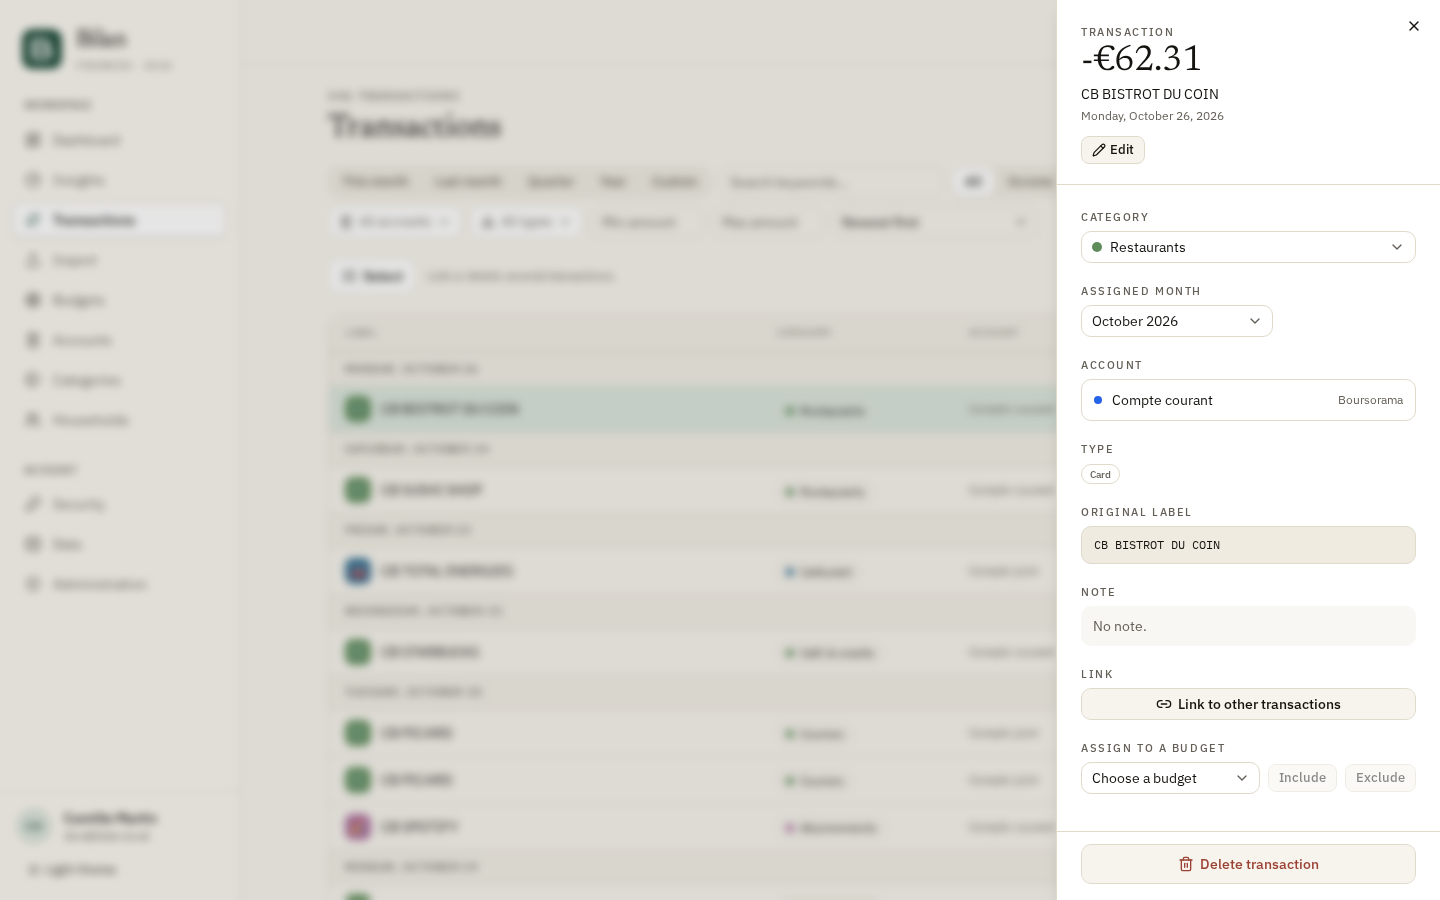
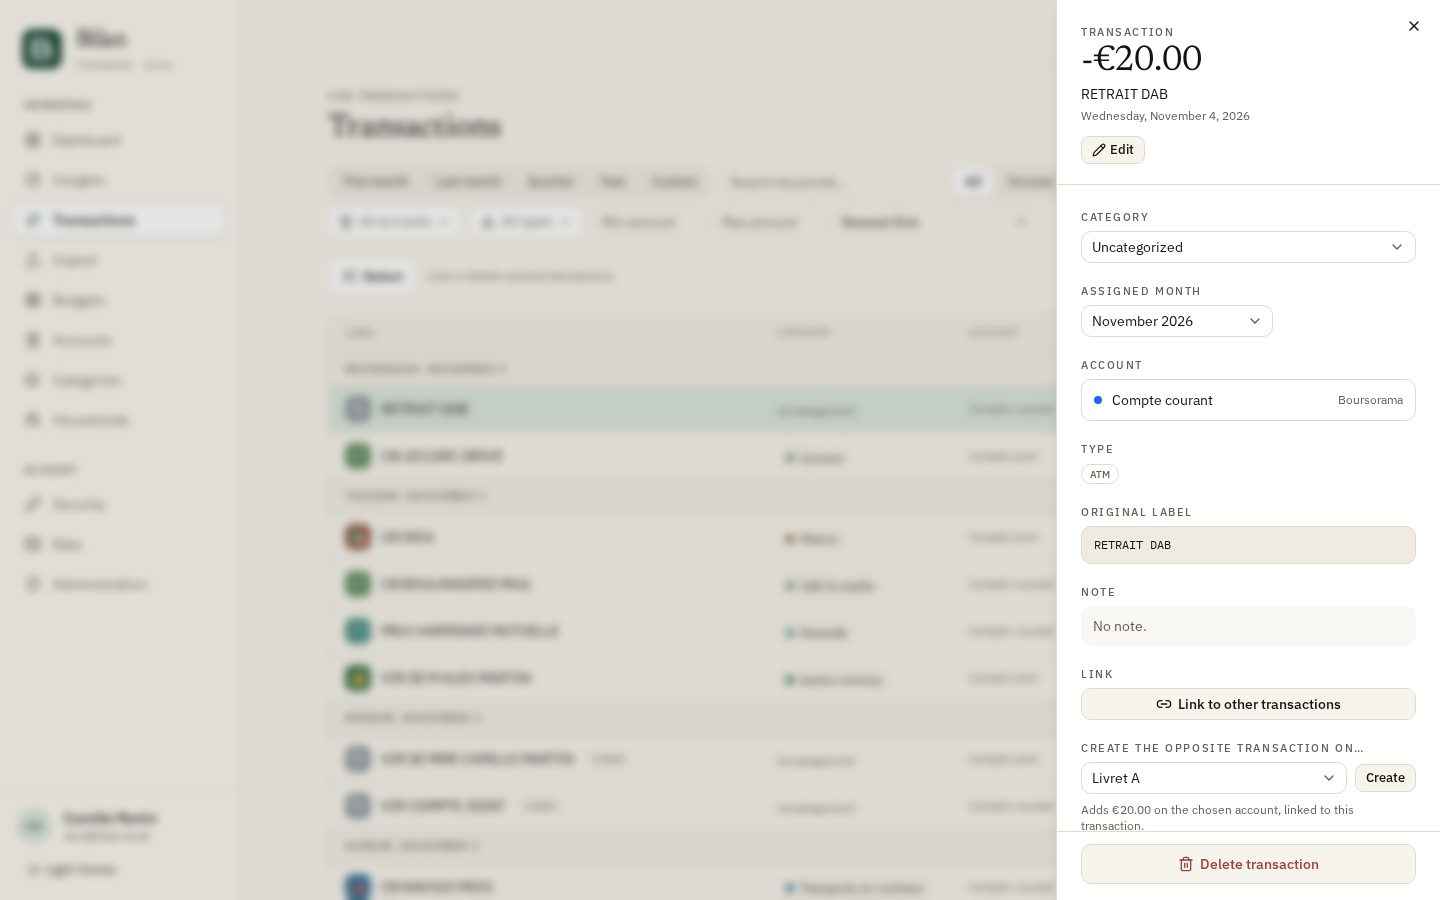
refactor: audit opposite legs on their link and test the target preselection

diff --git a/tests/unit/lib/links.test.ts b/tests/unit/lib/links.test.ts
@@ -9,6 +9,7 @@ import {
   labelWords,
   pairScore,
   findAutoLinkPairs,
+  oppositeTargets,
   AUTO_LINK_WINDOW_DAYS,
   type AutoLinkCandidate,
 } from "@/lib/links";
@@ -388,5 +389,48 @@ describe("collapseLinkedRows", () => {
     expect(out[0].id).toBe("a"); // primary = largest |amount|
     expect(out[0].amount).toBe(-20); // net
     expect(out[0].categoryId).toBe("groc"); // primary's category
+  });
+});
+
+describe("oppositeTargets (#404)", () => {
+  const acc = (id: string, type: string, over: { owned?: boolean; archived?: boolean } = {}) => ({
+    id,
+    type,
+    owned: over.owned ?? true,
+    archived: over.archived ?? false,
+  });
+
+  it("offers the user's own active accounts but the source's, preselecting a lone savings", () => {
+    const { targets, preselected } = oppositeTargets(
+      [
+        acc("src", "CHECKING"),
+        acc("joint", "CHECKING"),
+        acc("livret", "SAVINGS"),
+        acc("old", "SAVINGS", { archived: true }),
+        acc("shared", "SAVINGS", { owned: false }),
+      ],
+      "src",
+    );
+    expect(targets.map((a) => a.id)).toEqual(["joint", "livret"]);
+    expect(preselected).toBe("livret");
+  });
+
+  it("preselects nothing with no or several savings accounts", () => {
+    const none = oppositeTargets([acc("src", "CHECKING"), acc("joint", "CHECKING")], "src");
+    expect(none.preselected).toBe("");
+    const two = oppositeTargets(
+      [acc("src", "CHECKING"), acc("a", "SAVINGS"), acc("b", "SAVINGS")],
+      "src",
+    );
+    expect(two.preselected).toBe("");
+  });
+
+  it("never preselects the source's own savings account", () => {
+    const { targets, preselected } = oppositeTargets(
+      [acc("livret", "SAVINGS"), acc("courant", "CHECKING")],
+      "livret",
+    );
+    expect(targets.map((a) => a.id)).toEqual(["courant"]);
+    expect(preselected).toBe("");
   });
 });

diff --git a/src/components/transactions/transaction-detail.tsx b/src/components/transactions/transaction-detail.tsx
@@ -21,7 +21,8 @@ import { Pill, overline } from "./bits";
 import { TransactionEditForm } from "./transaction-edit-form";
 import { AssignedMonthBadge, AssignedMonthField } from "./assigned-month";
 import { useLinkErrorMessage } from "./link-error";
-import { OppositeTransaction, oppositeTargets } from "./opposite-transaction";
+import { OppositeTransaction } from "./opposite-transaction";
+import { oppositeTargets } from "@/lib/links";
 import { NativeSelect } from "@/components/ui/native-select";
 import { Link2, Pencil, Trash2, Unlink } from "lucide-react";
 import { formatPeriodLabel } from "@/lib/period";
@@ -236,8 +237,13 @@ export function TransactionDetail({
         : "archived"
       : null;
   const linkSummary = item?.linked && link?.txId === item.id ? link.summary : null;
-  const targets =
-    item && !item.linked && acc?.writable ? oppositeTargets(accounts, item.accountId) : [];
+  const opposite =
+    item && !item.linked && acc?.writable
+      ? oppositeTargets(
+          Object.entries(accounts).map(([id, a]) => ({ id, ...a })),
+          item.accountId,
+        )
+      : null;
 
   return (
     <Sheet
@@ -385,13 +391,14 @@ export function TransactionDetail({
                     </Button>
                   </Field>
                 )}
-                {targets.length > 0 && (
+                {opposite && opposite.targets.length > 0 && (
                   <Field label={tOpposite("field")}>
                     <OppositeTransaction
                       key={item.id}
                       transactionId={item.id}
                       amount={item.amount}
-                      targets={targets}
+                      targets={opposite.targets}
+                      preselected={opposite.preselected}
                     />
                   </Field>
                 )}

diff --git a/src/components/transactions/opposite-transaction.tsx b/src/components/transactions/opposite-transaction.tsx
@@ -17,30 +17,22 @@ const ERRORS = new Set([
   "TARGET_FORBIDDEN",
 ]);
 
-export function oppositeTargets(
-  accounts: Record<string, AccountMeta>,
-  sourceAccountId: string,
-): ({ id: string } & AccountMeta)[] {
-  return Object.entries(accounts)
-    .filter(([id, a]) => a.owned && !a.archived && id !== sourceAccountId)
-    .map(([id, a]) => ({ id, ...a }));
-}
-
 // Remount per transaction (key) so the preselection follows the row.
 export function OppositeTransaction({
   transactionId,
   amount,
   targets,
+  preselected,
 }: {
   transactionId: string;
   amount: number;
   targets: ({ id: string } & AccountMeta)[];
+  preselected: string;
 }) {
   const t = useTranslations("transactions.opposite");
   const locale = useLocale();
   const router = useRouter();
-  const savings = targets.filter((a) => a.type === "SAVINGS");
-  const [target, setTarget] = useState(savings.length === 1 ? savings[0].id : "");
+  const [target, setTarget] = useState(preselected);
   const [error, setError] = useState<string | null>(null);
   const [pending, startCreate] = useTransition();
   const nf = new Intl.NumberFormat(locale, { style: "currency", currency: "EUR" });

diff --git a/src/lib/links.ts b/src/lib/links.ts
@@ -261,3 +261,15 @@ export function collapseLinkedRows<T extends CollapsibleRow>(rows: T[]): T[] {
 
   return out;
 }
+
+type TargetAccount = { id: string; owned: boolean; archived: boolean; type: string };
+
+// Where the opposite of a transaction can be created (#404); a lone savings account is preselected.
+export function oppositeTargets<A extends TargetAccount>(
+  accounts: A[],
+  sourceAccountId: string,
+): { targets: A[]; preselected: string } {
+  const targets = accounts.filter((a) => a.owned && !a.archived && a.id !== sourceAccountId);
+  const savings = targets.filter((a) => a.type === "SAVINGS");
+  return { targets, preselected: savings.length === 1 ? savings[0].id : "" };
+}

diff --git a/tests/integration/links-opposite.test.ts b/tests/integration/links-opposite.test.ts
@@ -119,9 +119,13 @@ describe("createOppositeTransaction", () => {
       [source, id].sort(),
     );
     const audit = await db.auditLog.findFirstOrThrow({
-      where: { action: "link.oppositeCreated", entityId: id },
+      where: { action: "link.oppositeCreated", entityId: linkId },
     });
-    expect(audit).toMatchObject({ userId: owner, metadata: { sourceId: source, linkId } });
+    expect(audit).toMatchObject({
+      userId: owner,
+      entity: "TransactionLink",
+      metadata: { sourceId: source, legId: id },
+    });
   });
 
   it("an incoming transfer takes the money out of the target", async () => {

diff --git a/src/server/services/links/opposite.ts b/src/server/services/links/opposite.ts
@@ -58,9 +58,9 @@ export async function createOppositeTransaction(input: {
   await logEvent({
     userId: input.userId,
     action: "link.oppositeCreated",
-    entity: "Transaction",
-    entityId: leg.id,
-    metadata: { sourceId: source.id, linkId: leg.linkId },
+    entity: "TransactionLink",
+    entityId: leg.linkId,
+    metadata: { sourceId: source.id, legId: leg.id },
   });
   return { id: leg.id, linkId: leg.linkId };
 }
